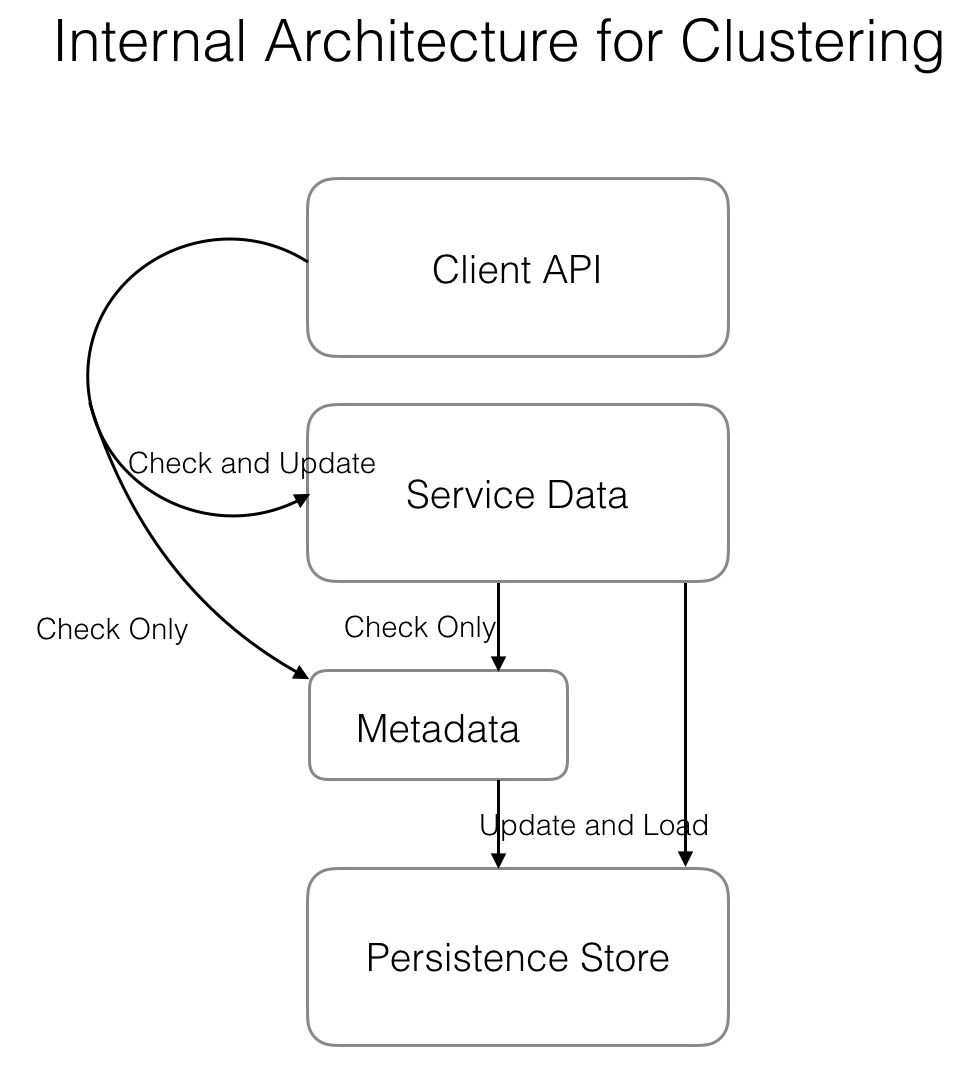
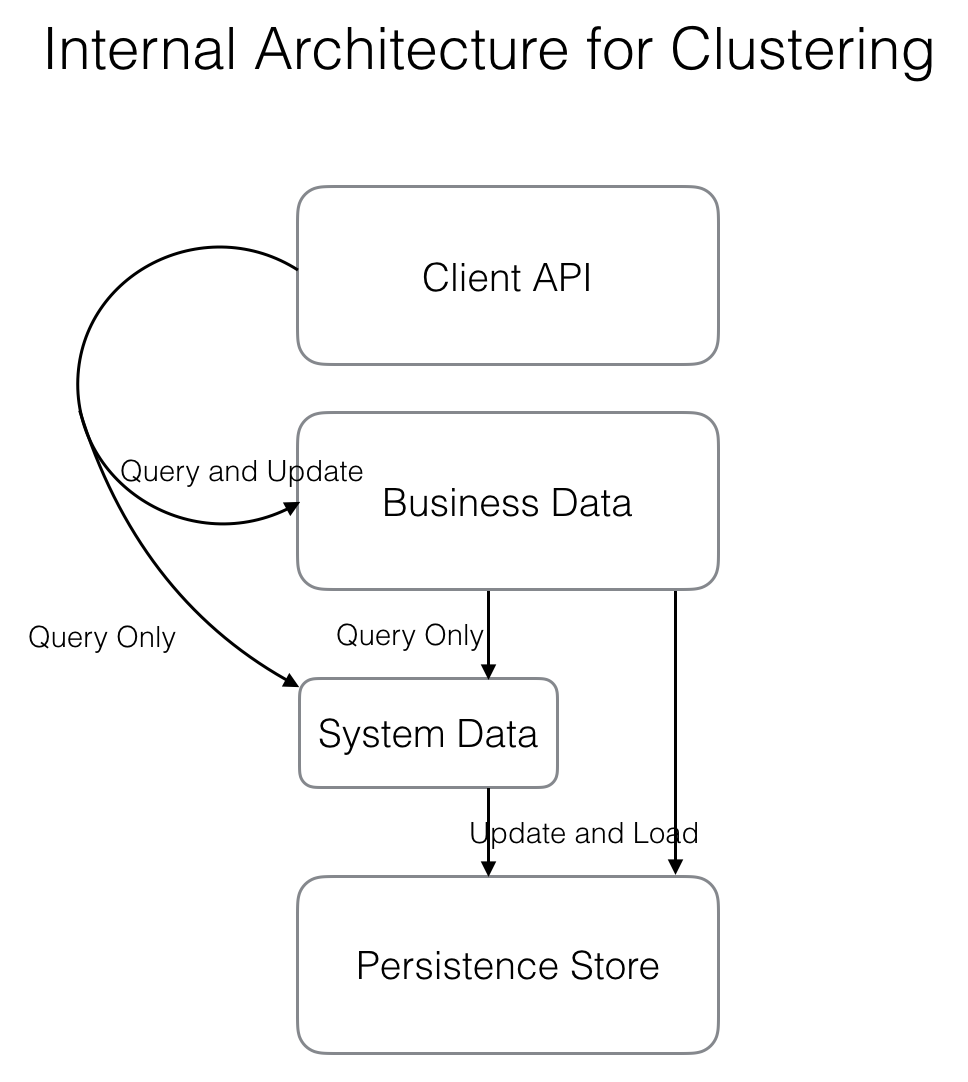
[doc]: rename inappropriate stuff

diff --git a/doc/cluster_design.md b/doc/cluster_design.md
@@ -15,20 +15,20 @@ Fix 1: According to CAP theory, we have to make a compromise to decline one feat
 
 Fix 2: Because unstable network status of WAN, it's hard to get strong consistency or lets system hang out a long time which violate the goal high availability. So we compromise to choose eventual consistency so common and mature protocol **Gossip** is our choice to synchronize information of cluster. By the way, in the 3 models of Gossip push, pull, push/pull we choose push/pull whose convergence rate is fastest.
 
-Fix 3: We bring a plain **logical** concept: **group**, which is one kind of metadata of cluster and separate diverse kinds of nodes carrying different tasks. From user's perspective, the action of each node in the same group must be the same.
+Fix 3: We bring a plain **logical** concept: **group**, which is one kind of system data of cluster and separate diverse kinds of nodes carrying different tasks. From user's perspective, the action of each node in the same group must be the same.
 
 ### Synchronized Content
-Every node stores some data which specifies its environment, responsibility and so on. For example: In flash sale, a group with 3 nodes got ratio of pass 0.6, so each one of it got 0.6 respectively. There are two layers of data: metadata and service data. Metadata is foundation for service data, the former provides necessary information for the latter. (TODO: provide a true example where the changes of metadata will affect  data) Here is an implementation trick, we could provide metadata callback API to notify related service data to update if necessary(Observer Pattern). 
+Every node stores some data which specifies its environment, responsibility and so on. For example: In flash sale, a group with 3 nodes got ratio of pass 0.6, so each one of it got 0.6 respectively. There are two layers of data: system data and business data. system data is foundation for business data, the former provides necessary information for the latter. (TODO: provide a true example where the changes of system data will affect  business data) Here is an implementation trick, we could provide system data callback API to notify related business data to update if necessary(Observer Pattern).
 
 ![./internal cluster design](./internal-cluster-design.png)
 
-#### Metadata
+#### System Data
 1. IP, port, status of every node of the cluster
 2. group information
 
-The metadata is read-only from perspective of administrator after deployment in theory. For simplicity, every node belongs to one and only one group. Therefore metadata can be maintained by Ease Gateway automatically.
+The system data is read-only from perspective of administrator after deployment in theory. For simplicity, every node belongs to one and only one group. Therefore system data can be maintained by Ease Gateway automatically.
 
-Here is an example to illustrate how Ease Gateway maintain metadata automatically(< for add, << for update).
+Here is an example to illustrate how Ease Gateway maintain system data automatically(< for add, << for update).
 
 1. Initially the info is:
 ```
@@ -151,14 +151,14 @@ info in Node-3:
 ```
 You can see the `Node-3` spread wrong info which is `Node-2` is still alive temporarily. But the `Node-2` and `Node-3` will also find death of `Node-2` finally. Moreover in here we could use quick check for down-node to dodge fake news: )
 
-#### Service Data
+#### Business Data
 1. pipeline configure
 2. plugin configure
-3. user-defined data such as all ports of nodes(which is a kind of aggregate-metadata)
+3. user-defined data such as all ports of nodes(which is a kind of aggregate system data)
 
-The service data can be grouped or ungrouped. And the ungrouped data belongs to every node, but grouped data belongs to corresponding grouped nodes. The administrator can update service data manually, or in the scene of flash sale the flash-sale-master could use cluster API to update percents of pass in corresponding nodes dynamically.
+The business data can be grouped or ungrouped. And the ungrouped data belongs to every node, but grouped data belongs to corresponding grouped nodes. The administrator can update business data manually, or in the scene of flash sale the flash-sale-master could use cluster API to update percents of pass in corresponding nodes dynamically.
 
-Here is a example to illustrate how Ease Gateway synchronizes service data automatically(< for add, << for update).
+Here is a example to illustrate how Ease Gateway synchronizes business data automatically(< for add, << for update).
 ```
 constant group information here:
 	Group-BJ: Node-1, Node-2
@@ -247,13 +247,13 @@ info in Node-3:
 ```
 As usual, `Pipeline-D` will be spread to all nodes finally.
 
-So at the layer of service data, the node will keep some data which is unnecessary for itself for a moment to issue the data to other nodes. In this scenario, the node plays a temporary spreader for service data.
+So at the layer of business data, the node will keep some data which is unnecessary for itself for a moment to issue the data to other nodes. In this scenario, the node plays a temporary spreader for business data.
 
 #### Version Control
 FIXME:  Is there time sequence of synchronized data and need to redo version11->version20 after the node reboot from version10(need redo log)?  Or just cover current version with newest version.
 
 #### Data Persistence
-The persistence of cluster data is the same with data of standalone version like the configure of pipeline/plugin is stored in disk. But for some service data unnecessary for current node could be cleared under some condition.
+The persistence of cluster data is the same with data of standalone version like the configure of pipeline/plugin is stored in disk. But for some business data unnecessary for current node could be cleared under some condition.
 
 #### Serialization & Compression
 JSON is friendly to debug. Binary protocols such as Protocol Buffers of Google, Thrift/Avro of Apache are good to bandwidth and efficiency. It's a tradeoff here.
@@ -278,14 +278,14 @@ Let's conclude our design by simply answering common design questions in distrib
 ## API Specification
 As usual, we choose common RESTful HTTP API to administrate cluster. Here we just give two typical demos.
 
-### Check Metadata
+### Query System Data
 ```shell
-$ curl https://gateway.megaease.com/cluster/v1/metadata \
--X POST \
+$ curl https://gateway.megaease.com/cluster/v1/system_data \
+-X GET \
 -H 'Accept:application/json'
 ```
 
-### Update Service Data
+### Update Business Data
 Given an example here, other APIs are similar. Create a pipeline to a group:
 ```shell
 $ curl https://gateway.megaease.com/cluster/v1/groups/pipelines \
